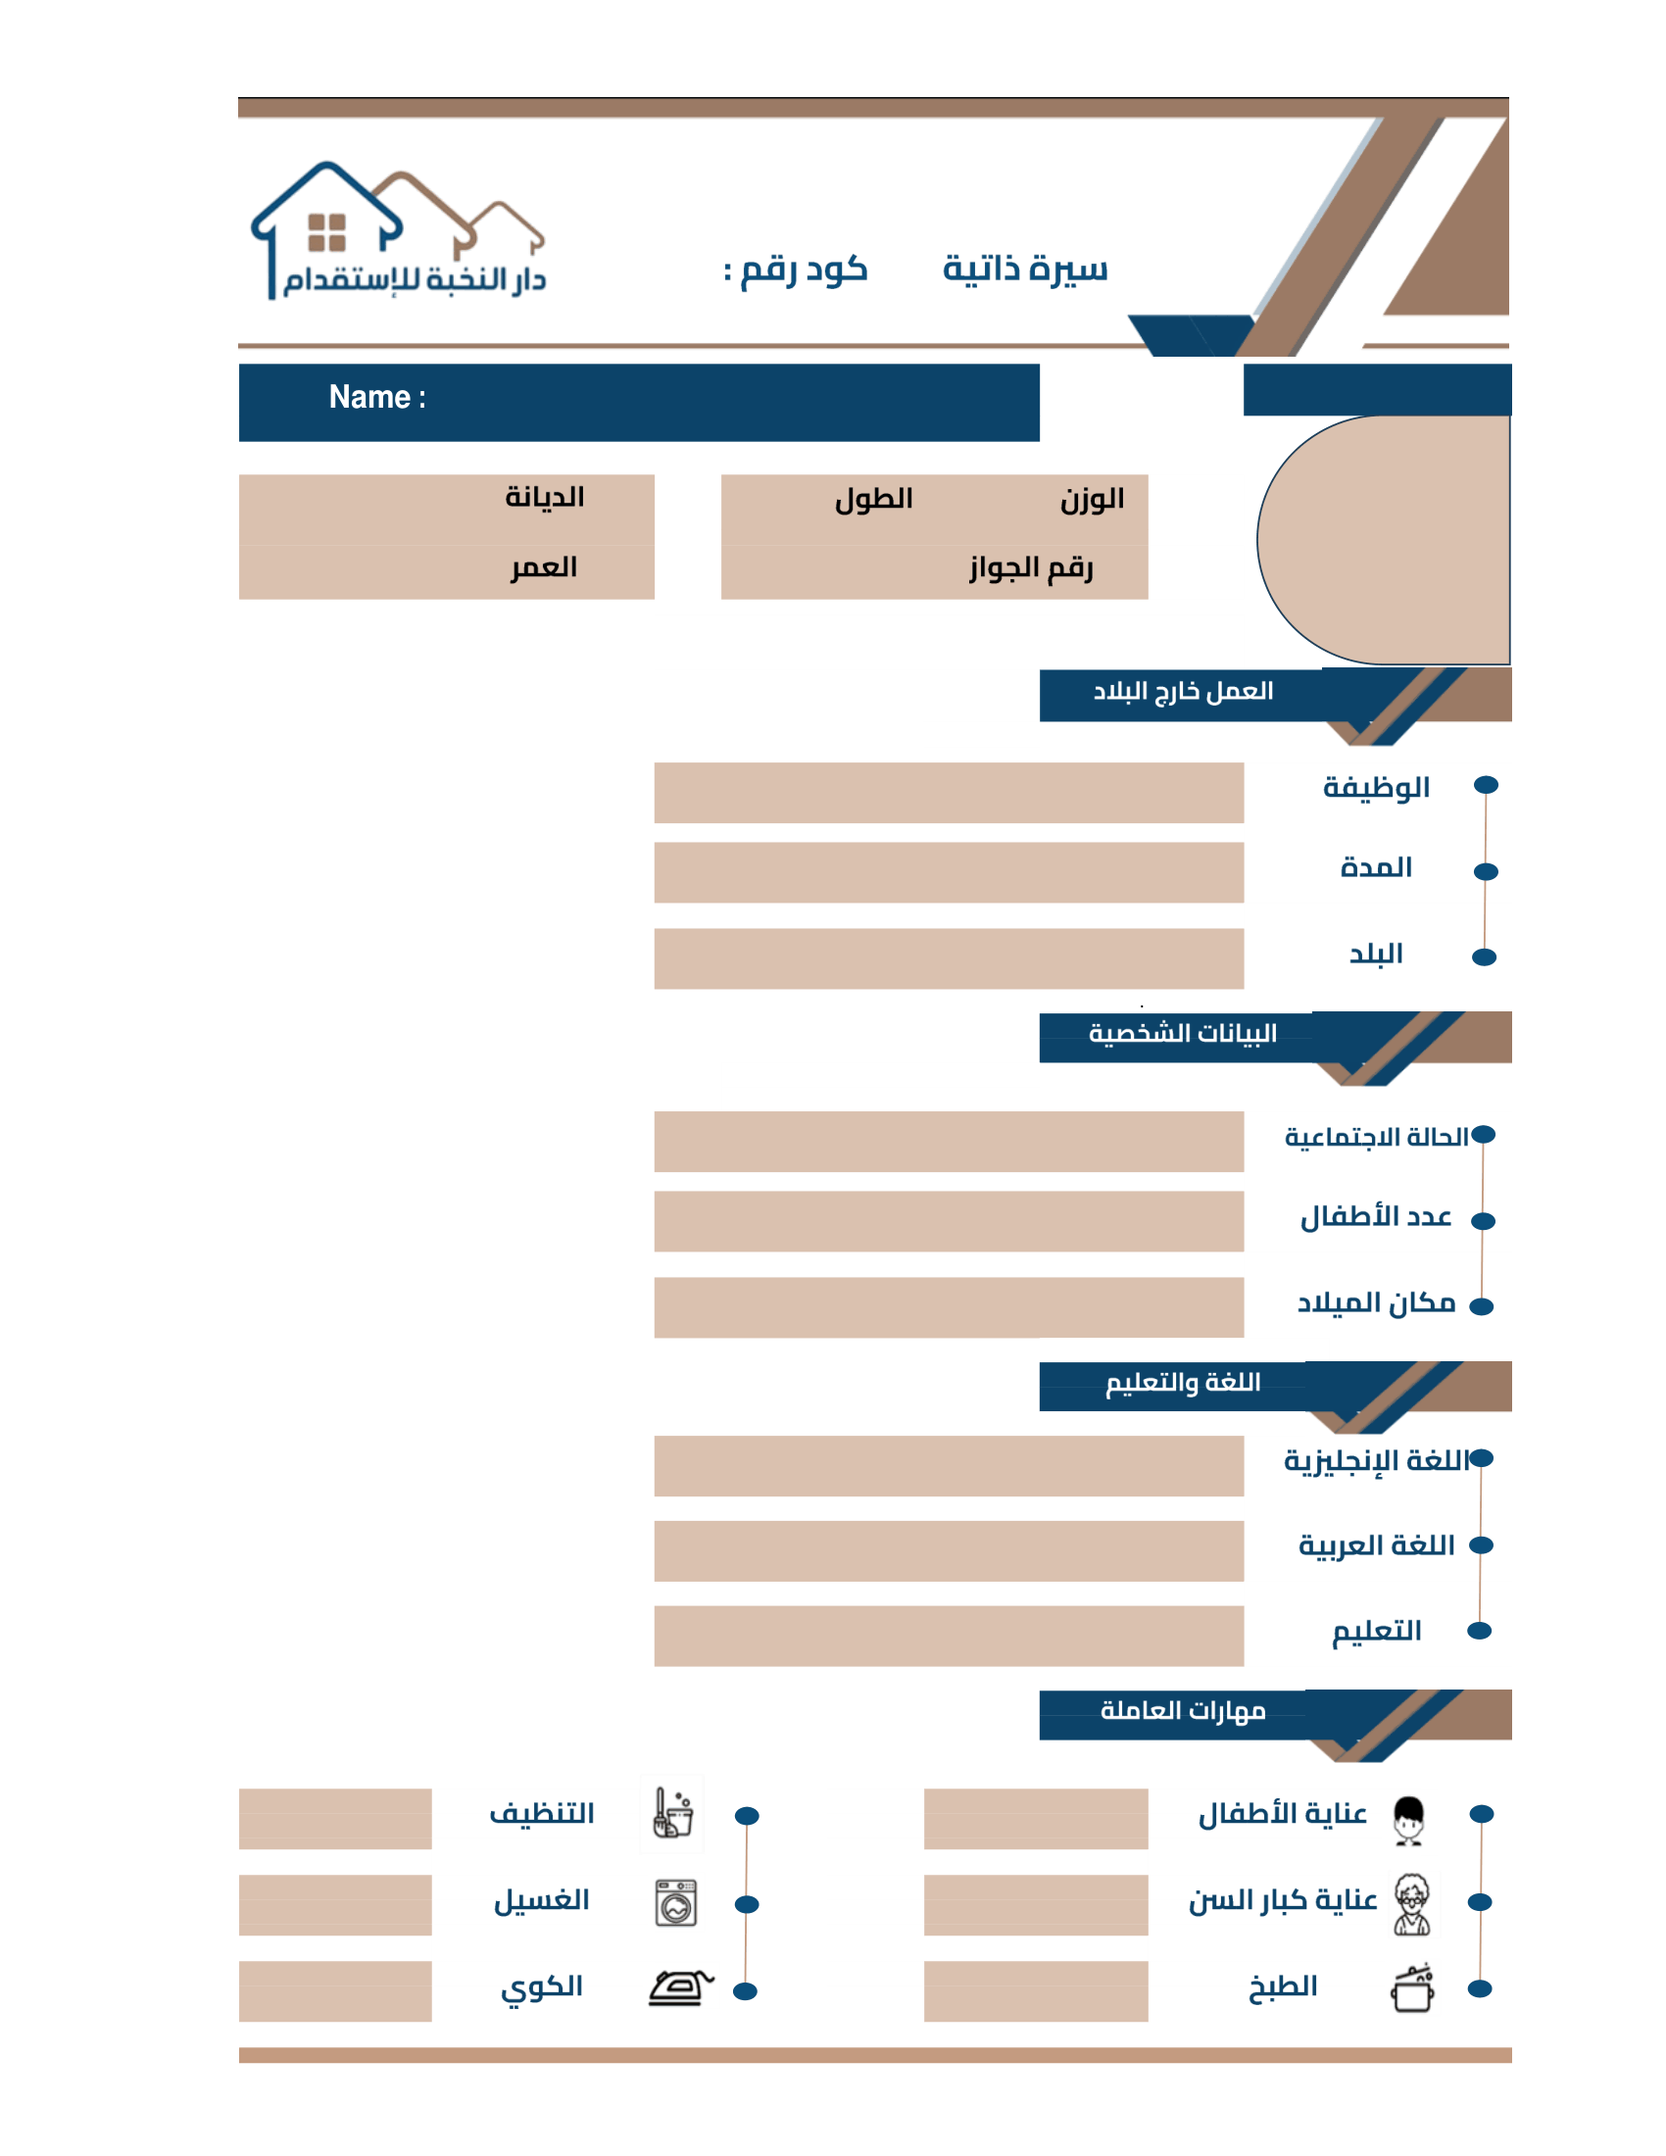
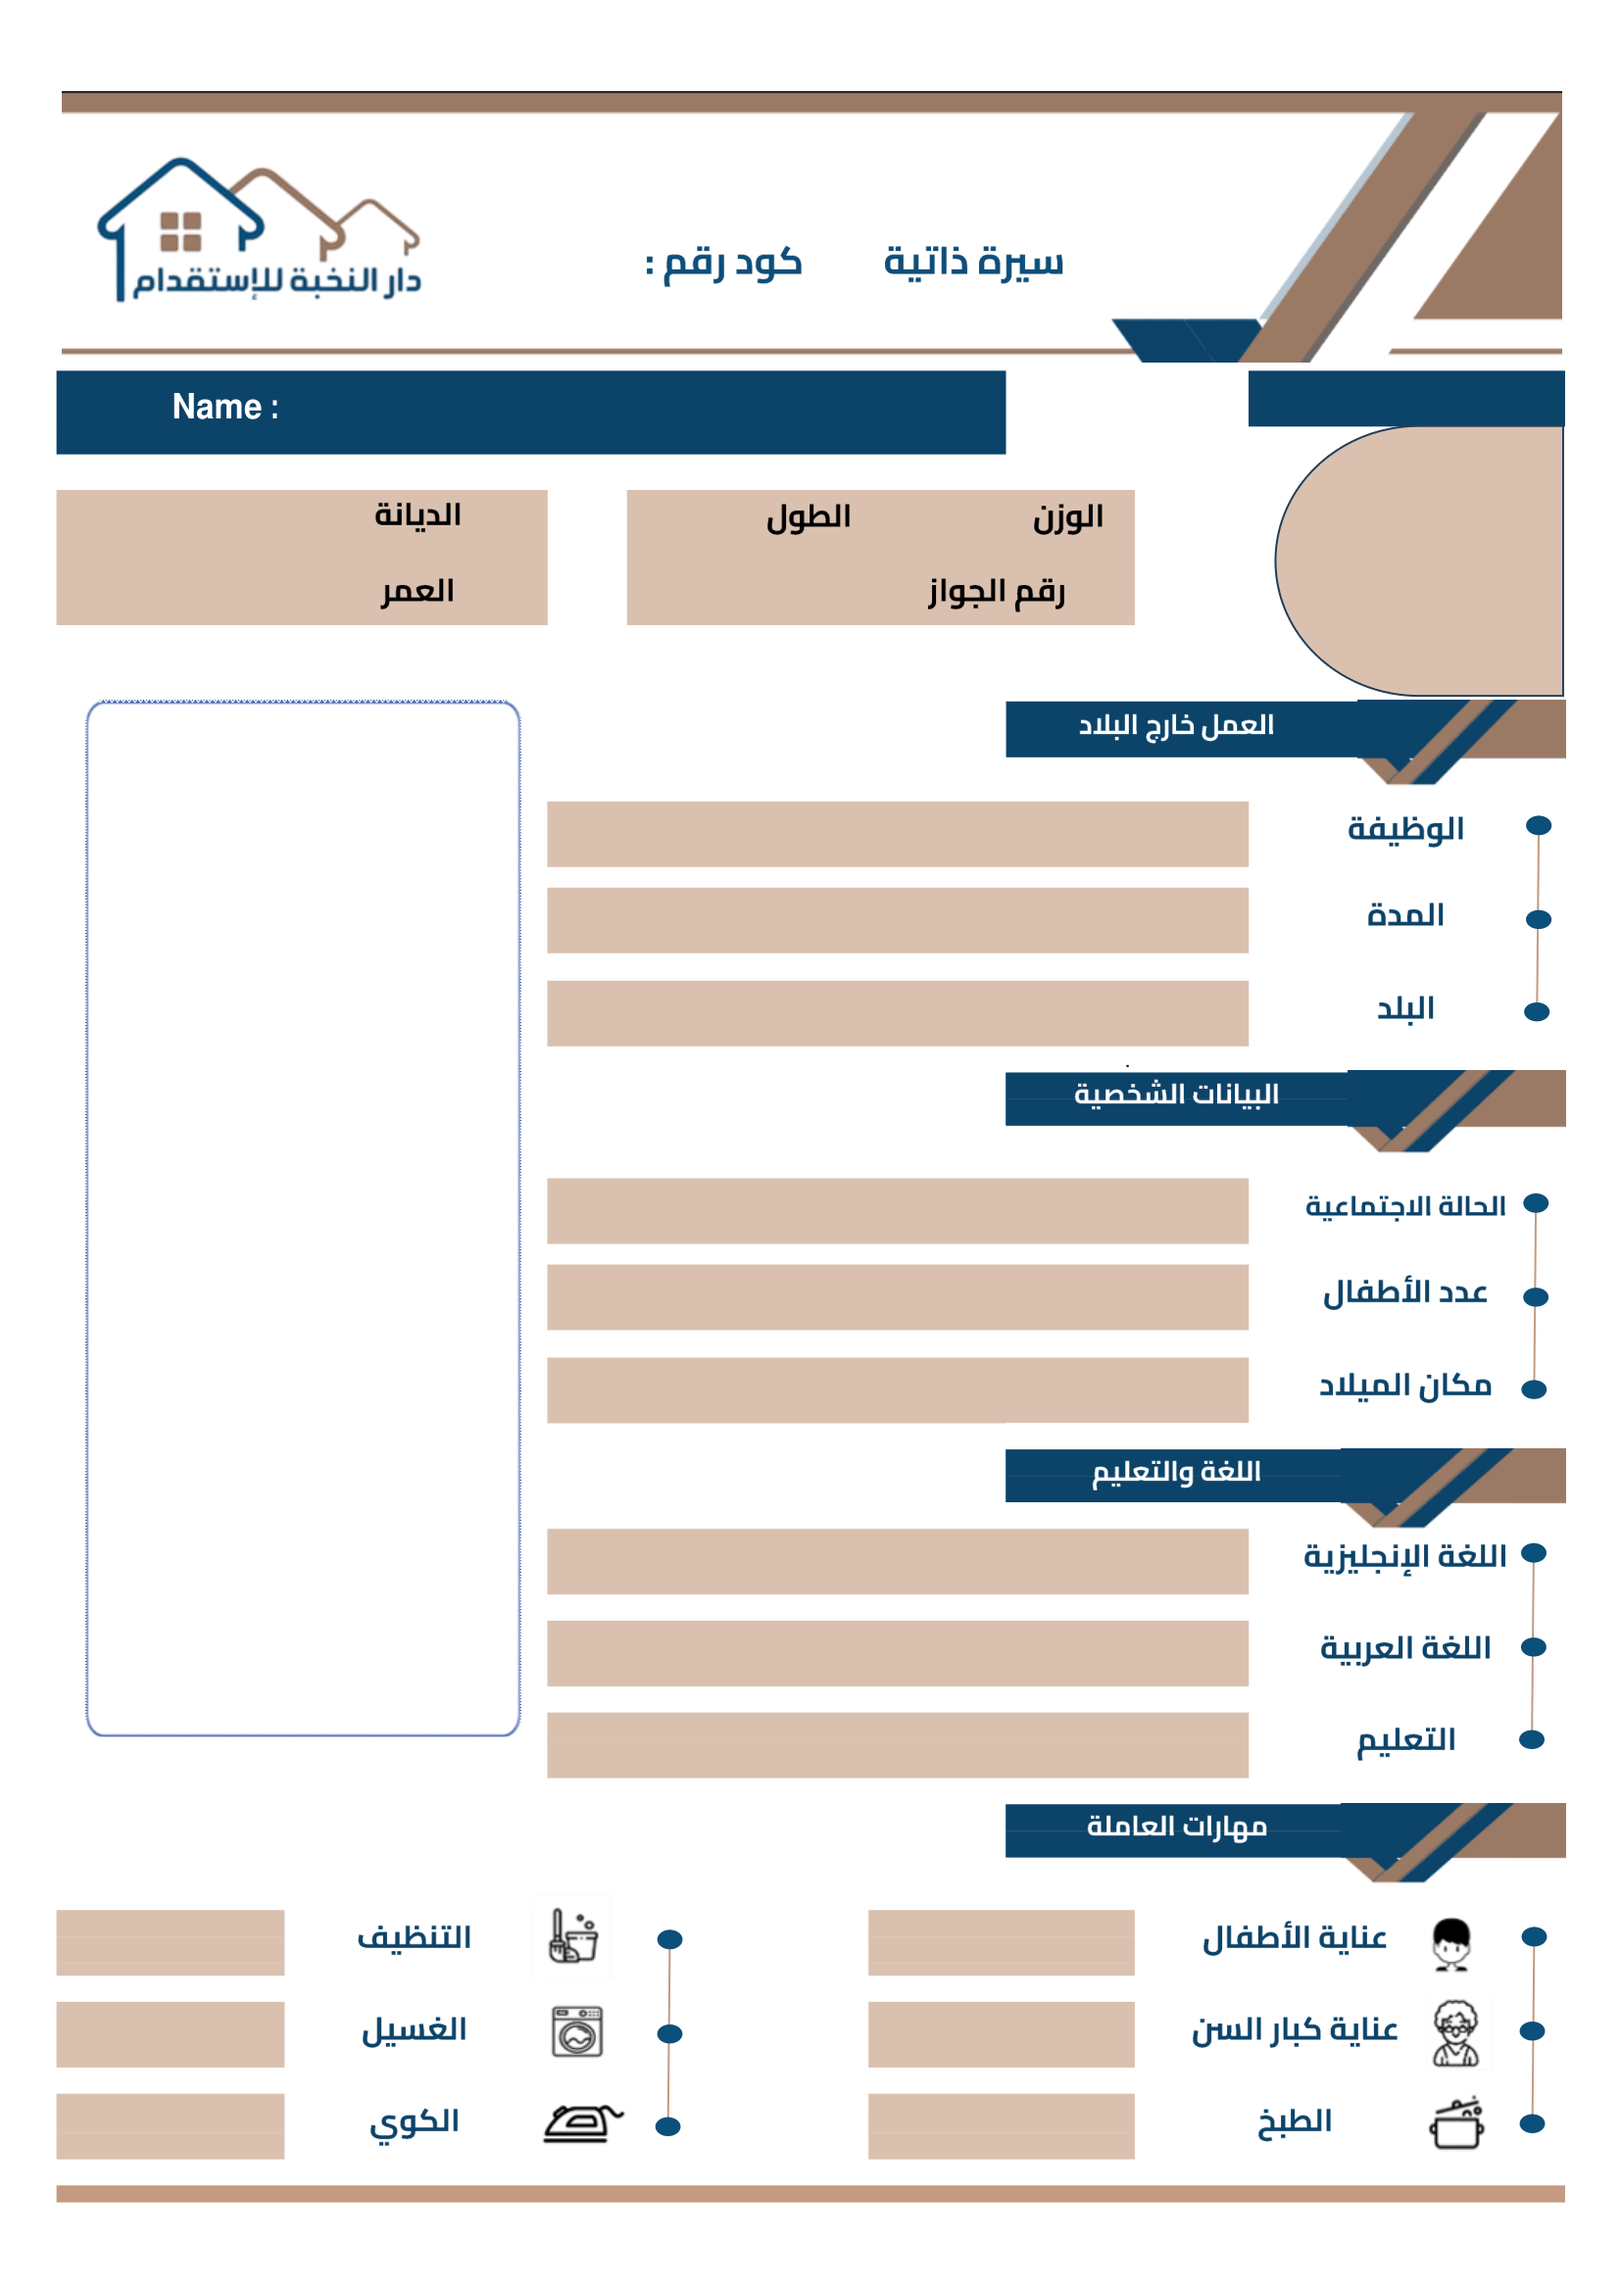
Add files via upload

Changed region(s): [[0.0308, 0.0309, 0.9867, 0.9891], [0.3083, 0.4945, 0.4008, 0.6182]]

diff --git a/cv-style.css b/cv-style.css
@@ -166,8 +166,14 @@ select option {
   box-sizing: border-box;
   overflow: hidden;
 }
-/* التنسيق العام لكافة مدخلات النصوص المركبة على الصورة */
+/* فرض خط Cairo على كافة العناصر والمدخلات */
+*, *::before, *::after, input, select, textarea, button {
+  font-family: 'Cairo', sans-serif !important;
+}
+
+/* التأكيد على نصوص الهيدر والـ overlay فوق الصورة */
 .overlay-val {
+  font-family: 'Cairo', sans-serif !important;
   position: absolute;
   display: flex;
   align-items: center;
@@ -185,19 +191,19 @@ select option {
 
 /* كود رقم */
 .overlay-code {
-  top: 11.4%;
-  left: 28.5%;
+  top: 10.8%;
+  left: 24.5%;
   width: 14%;
   height: 2.2%;
   color: #0C4369;
-  font-size: 15px;
+  font-size: 19px;
   justify-content: flex-start;
 }
 
 /* اسم الدولة في المربع الأزرق العلوي */
 .overlay-country-name {
-  top: 16.8%;
-  right: 9.5%;
+  top: 16.2%;
+  right: 5.2%;
   width: 16%;
   height: 2.4%;
   color: #ffffff;
@@ -207,8 +213,8 @@ select option {
 /* دائرة العلم فوق الدائرة القشرية/البنية في القالب */
 .overlay-flag-circle {
   position: absolute;
-  top: 19.8%;
-  right: 9.3%;
+  top: 19.4%;
+  right: 5.3%;
   width: 14.8%;
   height: 10.2%;
   border-radius: 40%;
@@ -227,8 +233,8 @@ select option {
 
 /* الاسم Name */
 .overlay-name {
-  top: 17.0%;
-  left: 26.5%;
+  top: 16.5%;
+  left: 19.5%;
   width: 38%;
   height: 2.8%;
   color: #ffffff;
@@ -239,57 +245,57 @@ select option {
 
 /* الوزن */
 .overlay-weight {
-  top: 22.1%;
-  right: 33.2%;
+  top: 21.6%;
+  right: 35.2%;
   width: 13.5%;
   height: 2.2%;
-  font-size: 16px;
+  font-size: 17px;
 }
 
 /* الطول */
 .overlay-height {
-  top: 22.1%;
-  right: 46.2%;
+  top: 21.6%;
+  right: 50.5%;
   width: 13.5%;
   height: 2.2%;
-  font-size: 16px;
+  font-size: 17px;
 }
 
 /* رقم الجواز */
 .overlay-passport {
-  top: 25.4%;
-  right: 34.8%;
+  top: 24.8%;
+  right: 35.8%;
   width: 27.5%;
   height: 2.2%;
-  font-size: 16px;
+  font-size: 17px;
 }
 
 /* الديانة */
 .overlay-religion {
-  top: 21.9%;
-  left: 9.5%;
+  top: 21.3%;
+  left: 0.5%;
   width: 25.5%;
   height: 2.2%;
-  font-size: 14px;
+  font-size: 17px;
 }
 
 /* العمر */
 .overlay-age {
-  top: 25.4%;
-  left: 9.5%;
+  top: 24.8%;
+  left: 0.5%;
   width: 25.5%;
   height: 2.2%;
-  font-size: 16px;
+  font-size: 17px;
 }
 
 /* صورة العاملة (توضع في المربع الأبيض على اليسار) */
 /* صورة العاملة */
 .overlay-photo {
   position: absolute;
-  top: 35.6%;
-  left: 9.8%;
+  top: 30.6%;
+  left: 4.8%;
   width: 27.2%;
-  height: 41.0%;
+  height: 45.0%;
   border: 1px solid #d8b4fe;
   border-radius: 10px;
   overflow: hidden;
@@ -319,13 +325,13 @@ select option {
 
 /* عنوان الخبرة (مثل: لم يسبق لها العمل) */
 .overlay-exp-title {
-  top: 31.2%;
-  right: 40.5%;
+  top: 30.8%;
+  right: 39.9%;
   width: 25%;
   height: 2.2%;
   justify-content: flex-start;
   color: #dc2626;
-  font-size: 12px;
+  font-size: 14px;
 }
 
 /* العمل خارج البلاد */
@@ -334,6 +340,7 @@ select option {
   right: 25.5%;
   width: 35.5%;
   height: 2.6%;
+  font-size: 14px;
 }
 
 .overlay-duration {
@@ -341,6 +348,7 @@ select option {
   right: 25.5%;
   width: 35.5%;
   height: 2.6%;
+  font-size: 14px;
 }
 
 .overlay-exp-country {
@@ -348,6 +356,7 @@ select option {
   right: 25.5%;
   width: 35.5%;
   height: 2.6%;
+    font-size: 14px;
 }
 
 /* البيانات الشخصية */
@@ -356,6 +365,7 @@ select option {
   right: 25.5%;
   width: 35.5%;
   height: 2.6%;
+font-size: 15px;
 }
 
 .overlay-children {
@@ -363,6 +373,7 @@ select option {
   right: 25.5%;
   width: 35.5%;
   height: 2.6%;
+  font-size: 17px;
 }
 
 .overlay-birthplace {
@@ -370,70 +381,80 @@ select option {
   right: 25.5%;
   width: 35.5%;
   height: 2.6%;
+  font-size: 15px;
 }
 
 /* اللغة والتعليم */
 .overlay-english {
-  top: 66.5%;
+  top: 66.8%;
   right: 25.5%;
   width: 35.5%;
   height: 2.6%;
+   font-size: 17px;
 }
 
 .overlay-arabic {
-  top: 70.4%;
+  top: 70.6%;
   right: 25.5%;
   width: 35.5%;
   height: 2.6%;
+  font-size: 17px;
 }
 
 .overlay-education {
-  top: 74.3%;
+  top: 74.7%;
   right: 25.5%;
   width: 35.5%;
   height: 2.6%;
+  font-size: 17px;
 }
 
 /* مهارات العاملة - العمود الأيمن */
 .overlay-babycare {
-  top: 82.7%;
+  top: 83.2%;
   right: 31.2%;
   width: 13.5%;
   height: 2.6%;
+    font-size: 14px;
 }
 
 .overlay-elderlycare {
-  top: 86.8%;
+  top: 87.2%;
   right: 31.2%;
   width: 13.5%;
   height: 2.6%;
+      font-size: 14px;
 }
 
 .overlay-cooking {
-  top: 90.8%;
+  top: 91.2%;
   right: 31.2%;
   width: 13.5%;
   height: 2.6%;
+      font-size: 14px;
 }
 
 /* مهارات العاملة - العمود الأيسر */
 .overlay-cleaning {
-  top: 82.7%;
-  left: 14.2%;
+  top: 83.2%;
+  left: 5.0%;
   width: 11.8%;
   height: 2.6%;
+      font-size: 14px;
 }
 
 .overlay-washing {
-  top: 86.8%;
-  left: 14.2%;
+  top: 87.2%;
+  left: 5.0%;
   width: 11.8%;
   height: 2.6%;
+      font-size: 14px;
 }
 
 .overlay-ironing {
-  top: 90.8%;
-  left: 14.2%;
+  top: 91.2%;
+  left: 5.0%;
   width: 11.8%;
   height: 2.6%;
+      font-size: 14px;
 }

diff --git a/cv-script.js b/cv-script.js
@@ -152,24 +152,22 @@ function downloadCVAsJPG() {
   const element = document.getElementById('cvCard');
   const codeValue = document.getElementById('inputCode').value.trim() || 'جديد';
 
-  html2canvas(element, {
-    scale: 3,             // دقة ممتازة وواضحة
-    useCORS: true,
-    logging: false,
-    scrollX: 0,
-    scrollY: 0
-  }).then(canvas => {
-    const link = document.createElement('a');
-    link.download = `CV_DarAlNukhba_${codeValue}.jpg`;
-    link.href = canvas.toDataURL('image/jpeg', 0.98);
-    link.click();
+  // الانتظار لحين تحميل خط Cairo بالكامل قبل التقاط الصورة
+  document.fonts.ready.then(() => {
+    html2canvas(element, {
+      scale: 3,             // دقة عالية وواضحة
+      useCORS: true,
+      logging: false,
+      scrollX: 0,
+      scrollY: 0
+    }).then(canvas => {
+      const link = document.createElement('a');
+      link.download = `CV_DarAlNukhba_${codeValue}.jpg`;
+      link.href = canvas.toDataURL('image/jpeg', 0.98);
+      link.click();
+    });
   });
 }
-
-function printCV() {
-  window.print();
-}
-
 function printCV() {
   window.print();
 }

diff --git a/cv-dar.html b/cv-dar.html
@@ -36,9 +36,9 @@
     <option value="الفلبين" data-flag="1.png">الفلبين</option>
     <option value="اثيوبيا" data-flag="2.png">اثيوبيا</option>
     <option value="كينيا" data-flag="3.png">كينيا</option>
-    <option value="أثيوبيا" data-flag="4.png">أثيوبيا</option>
-    <option value="أوغندا" data-flag="5.png">أوغندا</option>
-    <option value="سيريلانكا" data-flag="6.png">سيريلانكا</option>
+    <option value="سيريلانكا" data-flag="4.png">سيريلانكا</option>
+    <option value="بنقلادش" data-flag="5.png">بنقلادش</option>
+    <option value="الهند" data-flag="6.png">الهند</option>
   </select>
 </div>
           <div class="form-group full-width">
